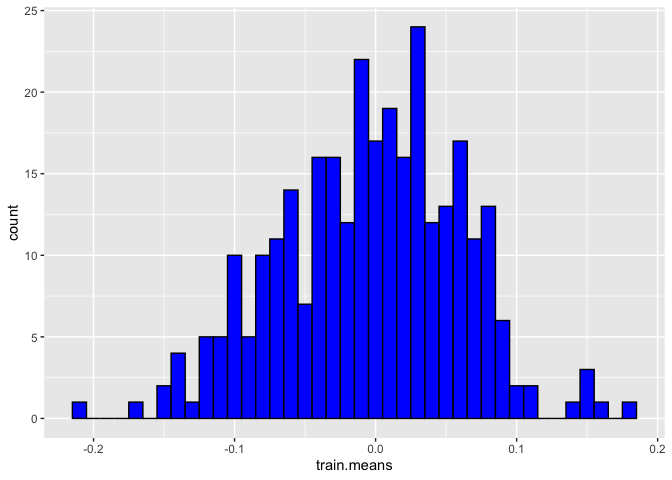
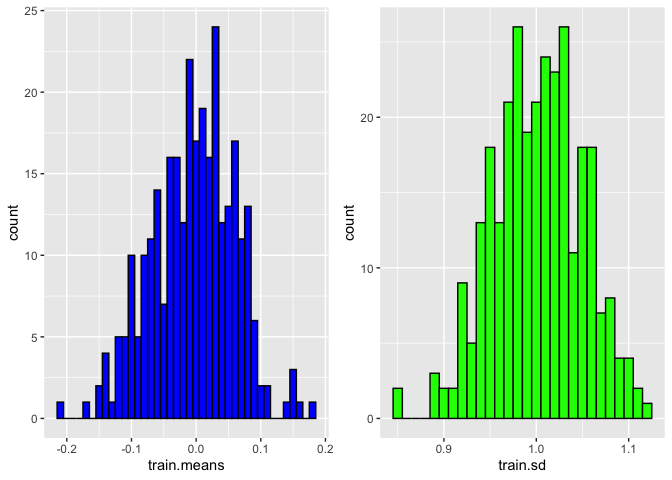
Added normal distribution analysis, correlation analysis and PCA

diff --git a/1.-Import-and-Explore.md b/1.-Import-and-Explore.md
@@ -1,9 +1,8 @@
 Import and Explore
 ================
 Eoin Scanlon
-2/5/2020
 
-## Import and sneak peak
+# Import and sneak peak
 
 Data can be downloaded from
 <https://www.kaggle.com/c/dont-overfit-ii/data>. Always good to have a
@@ -40,13 +39,154 @@ train.data <- train[,-c(1,2)] # Remove unnecessary columns
 train.means <- colMeans(train.data) # Means of each column
 train.sd <- apply(train.data, 2, sd) # SD of each column
 
-ggplot(as.data.frame(train.means), aes(x = train.means)) + geom_histogram(color="black", fill="blue",binwidth = 0.01)
+p1<- ggplot(as.data.frame(train.means), aes(x = train.means)) + geom_histogram(color="black", fill="blue",binwidth = 0.01)
+p2<- ggplot(as.data.frame(train.sd), aes(x = train.sd)) + geom_histogram(color="black", fill="green",binwidth = 0.01)
+
+grid.arrange(p1, p2, ncol = 2)
 ```
 
 ![](1.-Import-and-Explore_files/figure-gfm/unnamed-chunk-3-1.png)<!-- -->
 
+Ok so the means seem to be spread from about -0.2 to +0.2, with a normal
+distribution type vibe. So lets draw a normal distribution over the
+plots and see.
+
 ``` r
-ggplot(as.data.frame(train.sd), aes(x = train.sd)) + geom_histogram(color="black", fill="green",binwidth = 0.01)
+# Means
+p1 <- ggplot(as.data.frame(train.means), aes(x = train.means)) + geom_histogram(aes(y =..density..),
+                                                                          color="black", 
+                                                                          fill="blue",
+                                                                          binwidth = 0.01) + 
+  stat_function(fun = dnorm, args = list(mean = mean(train.means), sd = sd(train.means)))
+
+# Standard Deviations
+p2 <- ggplot(as.data.frame(train.sd), aes(x = train.sd)) + geom_histogram(aes(y =..density..),
+                                                                    color="black", 
+                                                                    fill="green",
+                                                                    binwidth = 0.01) +
+  stat_function(fun = dnorm, args = list(mean = mean(train.sd), sd = sd(train.sd)))
+
+grid.arrange(p1, p2, ncol = 2)
 ```
 
-![](1.-Import-and-Explore_files/figure-gfm/unnamed-chunk-3-2.png)<!-- -->
+![](1.-Import-and-Explore_files/figure-gfm/unnamed-chunk-4-1.png)<!-- -->
+
+## Testing for Normality
+
+We can test whether these data are normally distributed using QQplots.
+
+``` r
+# Test for normality
+qqnorm(train.means,main="QQ plot of means",pch=19)
+qqline(train.means)
+```
+
+![](1.-Import-and-Explore_files/figure-gfm/unnamed-chunk-5-1.png)<!-- -->
+
+``` r
+qqnorm(train.sd,main="QQ plot of SDs",pch=19)
+qqline(train.sd)
+```
+
+![](1.-Import-and-Explore_files/figure-gfm/unnamed-chunk-5-2.png)<!-- -->
+
+They seem to be pretty consistent with normal distributions. But these
+are just the *means* and the *standard deviations*. If we want to look
+at the actual data, we should use something non-visual, since there are
+so may columns. The Shapiro-Wilk test might be a good idea for single
+column inputs, but here we can use a multivariate normality
+test.
+
+``` r
+mvn(train.data,multivariatePlot = "qq")
+```
+
+![](1.-Import-and-Explore_files/figure-gfm/unnamed-chunk-6-1.png)<!-- -->
+
+So clearly, the data is not multivariate normal, or the points above
+would lie along the straight line.
+
+## Correlation Analysis
+
+``` r
+res <- cor(train.data)
+#round(res, 2)
+melted_data <- melt(res)
+ggplot(data = melted_data, aes(x=Var1, y=Var2, fill=value)) + 
+  geom_tile()
+```
+
+![](1.-Import-and-Explore_files/figure-gfm/unnamed-chunk-7-1.png)<!-- -->
+
+At this scale, this looks like pure white noise. There may be
+correlations within this data, but we just can’t see them here because
+of the size issue. So lets look at a histogram of all the correlations.
+
+``` r
+head(melted_data)
+```
+
+    ##   Var1 Var2       value
+    ## 1   X0   X0  1.00000000
+    ## 2   X1   X0  0.03993948
+    ## 3   X2   X0  0.06984606
+    ## 4   X3   X0 -0.13982899
+    ## 5   X4   X0  0.07936038
+    ## 6   X5   X0 -0.06325927
+
+``` r
+ggplot(melted_data, aes(x = melted_data$value)) + geom_histogram(aes(y =..density..),
+                                                                    color="black", 
+                                                                    fill="yellow",
+                                                                    binwidth = 0.01) + 
+  stat_function(fun = dnorm, args = list(mean = mean(melted_data$value), sd = sd(melted_data$value)))
+```
+
+![](1.-Import-and-Explore_files/figure-gfm/unnamed-chunk-8-1.png)<!-- -->
+
+Pretty safe to say so that all of the data is uncorrelated. The
+correlation values are almost a textbook normal distrubution with a mean
+of 0 and small standard deviation. The small spike at 1 is the values’
+self-correlations.
+
+So lets draw a line under this now and assume (safely) that there is
+very little correlation between columns, the data is not multivariate
+normal and that the means/standard deviations *between* columns are
+normally distributed.
+
+# Further Data Exploration
+
+First up, standardise the data. Its not really necessary, as the data is
+so similar in terms of range. But still, can’t hurt.
+
+``` r
+scaled.dat <- scale(train.data)
+```
+
+## PCA
+
+Lets look at a principle component analysis. Since the dataset is so
+large (300 columns/variables), we would hope that we’ll discover that a
+small number of components (eigenvectors) account for a significant
+proportion of the data.
+
+``` r
+dat.pca <- prcomp(scaled.dat)
+x <- summary(dat.pca)
+x$importance[,1:10]
+```
+
+    ##                             PC1      PC2      PC3      PC4     PC5      PC6
+    ## Standard deviation     2.110503 2.072794 2.033997 2.012024 1.97891 1.955954
+    ## Proportion of Variance 0.014850 0.014320 0.013790 0.013490 0.01305 0.012750
+    ## Cumulative Proportion  0.014850 0.029170 0.042960 0.056450 0.06951 0.082260
+    ##                             PC7      PC8      PC9     PC10
+    ## Standard deviation     1.945051 1.929739 1.912301 1.901555
+    ## Proportion of Variance 0.012610 0.012410 0.012190 0.012050
+    ## Cumulative Proportion  0.094870 0.107280 0.119470 0.131530
+
+No such luck. It seems as though all 300 components are equally
+‘important’. There doesn’t seem to be much here in terms of
+eigenvector decomposition. From the output above, we can see that the
+cumulative population of even the top 10 components accounts for only
+around 13% of all variance in the data. Hardly useful.
